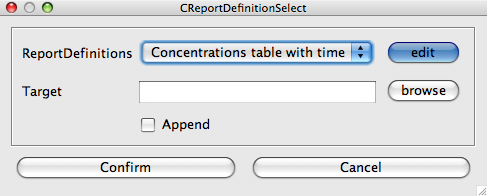
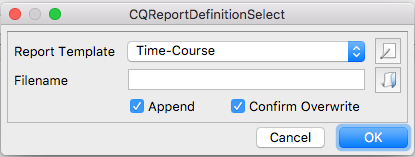
- update screenshots and time course description

diff --git a/Support/User_Manual/Tasks/Time_Course_Simulation/index.html b/Support/User_Manual/Tasks/Time_Course_Simulation/index.html
@@ -4,36 +4,125 @@ title: "Time Course Simulation"
 structure: "User_Manual"
 ---
 
+<script src="https://polyfill.io/v3/polyfill.min.js?features=es6"></script>
+<script>
+MathJax = {
+  tex: {inlineMath: [['$', '$'], ['\\(', '\\)']]}
+};
+</script>
+<script type="text/javascript" id="MathJax-script" defer
+  src="https://cdn.jsdelivr.net/npm/mathjax@3/es5/tex-svg.js">
+</script>
+
+
 <div class="row">
   <div class="col-xs-12">
 
-In order to do a time course simulation, you have to navigate to the corresponding task branch in the object tree which is located at Tasks-&gt;Time Course.<br />
-<br />
-<div class="img" align="center"><table cellpadding="0" cellspacing="0"><tr><td><img alt="" src="TimeCourseTask_01.png" style="width:100%" border="0"  /></td></tr><tr><td class="mini">Trajector&nbsp;Task&nbsp;Dialog</td></tr></table></div><br />
-<br />
-In the <i>Time Course</i> widget you can change several parameters for the time course, e.g. the duration of the simulation and the number of intervals that are being calculated in the time range. Alternatively to setting the number of intervals, you can also set the size of the interval. If you set either one, the other will be updated accordingly. Because if you change the duration, the number of intervals will stay the same, which means that the interval size will be adjusted. The check box labeled Save Result in Memory tells COPASI to keep the result of the time series calculation in memory in order to display it in a result dialog. Since this can be a large amount of data depending on the size of your model and/or on the number of intervals you want COPASI to calculate, you should disable this if you think the result might not fit into memory. The consequence of disabling this check box is that you need to <a title="COPASI: Support/User Manual/Output/Manual Definition/Reports" href="{{ site.baseurl }}/Support/User_Manual/Output/Manual_Definition/Reports/" >define a report</a> in order to store the results of the time course simulation.<br />
-<br />
-Another thing that you can adjust in this dialog is the time at which COPASI starts to record the output. Normally COPASI will store all output and display it in the plot and reports, if there are any, or in the results dialog, if that feature was not disabled. With the delayed check box and input field of Start Output Time, you can specify that COPASI shall drop all results prior to a certain time point. For example, you could decide that you want to run a time course simulation for 100 seconds but only interested in the last 50 seconds of the simulation. In this case you would activate the delayed check box and specify a delay of, lets say, 50. This delay will be used for all kinds of output.<br />
-<br />
-The time course simulation does not necessarily start with <img class="latex-equation" style="vertical-align: text-bottom; position: relative; bottom: +1px; height: 11; width: 37;" src="7d4fca8e7605c4575560f810ff855f57.png" alt="${t}_{0}=0$"> . The start time of the time course simulation depends on the initial model time which can be specified in the <a title="COPASI: Support/User Manual/Model Creation/General Model Settings" href="{{ site.baseurl }}/Support/User_Manual/Model_Creation/General_Model_Settings/" >general model settings dialog</a>.<br />
-<br />
-COPASI supports six different methods for calculating time course simulations. COPASI can use the <i>LSODA</i> solver, or its variant called <i>LSODAR</i>, to calculate the time course deterministically. COPASI is able to calculate the time course stochastically by means of one of two stochastic solvers: the <i>Gibson and Bruck</i> method or the <i>Tau-Leap</i> one. Depending on the solver you have chosen, you can set several parameters in the Parameter value table that influence the way the method works. A detailed explanation of those parameters will follow in the methods part of this document.<br />
-<br />
-In addition to purely deterministic or purely stochastic time course simulations, COPASI can also use a so called hybrid method to calculate a trajectory. This hybrid method splits the model in two segments according to the number of particles participating in a reaction. Reactions with many particles are simulated deterministically and those reactions with only a few particles are simulated stochastically. The boundaries of what is considered as to many or few particles can be set by the user. Depending on the nature of the model, the hybrid simulation can lead to significant simulation speedup compared to purely stochastic simulation while still being more accurate than purely deterministic simulation for small particle numbers. However, the method should still be considered experimental. For a more detailed description of the method and the attributes that you can set see the methods section.<br />
-<br />
-The hybrid solver comes in two flavors. One uses LSODA for deterministic simulation and is called <i>Hybrid (LSODA)</i>, the other uses Runge-Kutta fourth order and is called <i>Hybrid (Runge-Kutta)</i>.<br />
-<br />
-If you haven't created a report definition yet, you can use the output assistant to easily create one by clicking on the corresponding button at the bottom of the time course dialog. Once you have <a title="COPASI: Support/User Manual/Output/Manual Definition/Reports" href="{{ site.baseurl }}/Support/User_Manual/Output/Manual_Definition/Reports/" >created a report definition</a>, you have to associate this report definition with a file for COPASI to be able to write the results to that file. To do that, you click on the Report button.<br />
-<br />
-<div class="img" align="center"><table cellpadding="0" cellspacing="0"><tr><td><img alt="" src="TimeCourseTask_02.png" style="width:100%" border="0"  /></td></tr><tr><td class="mini">Dialog&nbsp;to&nbsp;associate&nbsp;a&nbsp;Report&nbsp;with&nbsp;a&nbsp;File</td></tr></table></div><br />
-<br />
-The dialog that pops up will let you choose the report you want to use (in case you created more than one) and lets you browse for a file to store the report to. Additionally, you can choose if you want to append the report to an already existing file. The default is to create a new file, or to overwrite an existing file. If you want to append to the selected file, you have to check the Append check box.<br />
-<br />
-Once you made all the desired changes to the parameters, you can start the time course simulation by clicking on the Run button. COPASI will show a progress bar while running the simulation, which might take some time depending on several factors, like the hardware you are using, the simulation method you chose, and/or the size of your model. Once COPASI finishes the calculation, the results will be displayed in the report file you defined and/or in a separate result dialog, if you told COPASI to keep the results in memory.<br />
-<br />
-The Result dialog is located directly below the Time Course branch in the object tree. In this widget you can choose whether you want the results to be displayed as concentrations or as particle numbers, and you have the possibility to store the results to a file. The advantage that a report has rather than writing a file in the Result widget is that you can choose exactly which species concentrations you want to store whereas the Result dialog always stores all species concentrations. You also can't change the order in which the species concentrations are written, if you store the result from this dialog.<br />
-<br />
-<div class="img" align="center"><table cellpadding="0" cellspacing="0"><tr><td><img alt="" src="TimeCourseTask_03.png" style="width:100%" border="0"  /></td></tr><tr><td class="mini">Trajectory&nbsp;Task&nbsp;Results</td></tr></table></div><br />
-<br />
+    In order to do a time course simulation, you have to navigate to the corresponding task branch in the object tree
+    which is located at Tasks-&gt;Time Course.<br />
+    <br />
+    <div class="img" align="center">
+      <table cellpadding="0" cellspacing="0">
+        <tr>
+          <td><img alt="" src="TimeCourseTask_01.png" style="width:100%" border="0" /></td>
+        </tr>
+        <tr>
+          <td class="mini">Trajector&nbsp;Task&nbsp;Dialog</td>
+        </tr>
+      </table>
+    </div><br />
+    <br />
+    In the <i>Time Course</i> widget you can change several parameters for the time course, e.g. the duration of the
+    simulation and the number of intervals that are being calculated in the time range. Alternatively to setting the
+    number of intervals, you can also set the size of the interval. If you set either one, the other will be updated
+    accordingly. Because if you change the duration, the number of intervals will stay the same, which means that the
+    interval size will be adjusted. The check box labeled Save Result in Memory tells COPASI to keep the result of the
+    time series calculation in memory in order to display it in a result dialog. Since this can be a large amount of
+    data depending on the size of your model and/or on the number of intervals you want COPASI to calculate, you should
+    disable this if you think the result might not fit into memory. The consequence of disabling this check box is that
+    you need to <a title="COPASI: Support/User Manual/Output/Manual Definition/Reports"
+      href="{{ site.baseurl }}/Support/User_Manual/Output/Manual_Definition/Reports/">define a report</a> in order to
+    store the results of the time course simulation.<br />
+    <br />
+    Another thing that you can adjust in this dialog is the time at which COPASI starts to record the output. Normally
+    COPASI will store all output and display it in the plot and reports, if there are any, or in the results dialog, if
+    that feature was not disabled. With the delayed check box and input field of Start Output Time, you can specify that
+    COPASI shall drop all results prior to a certain time point. For example, you could decide that you want to run a
+    time course simulation for 100 seconds but only interested in the last 50 seconds of the simulation. In this case
+    you would activate the delayed check box and specify a delay of, lets say, 50. This delay will be used for all kinds
+    of output.<br />
+    <br />
+    The time course simulation does not necessarily start with ${t}_{0}=0$. The start time of the time course simulation
+    depends on the initial model time which can be specified in the <a
+      title="COPASI: Support/User Manual/Model Creation/General Model Settings"
+      href="{{ site.baseurl }}/Support/User_Manual/Model_Creation/General_Model_Settings/">general model settings
+      dialog</a>.<br />
+    <br />
+    COPASI supports six different methods for calculating time course simulations. COPASI can use the <i>LSODA</i>
+    solver, or its variant called <i>LSODAR</i>, to calculate the time course deterministically. COPASI is able to
+    calculate the time course stochastically by means of one of two stochastic solvers: the <i>Gibson and Bruck</i>
+    method or the <i>Tau-Leap</i> one. Depending on the solver you have chosen, you can set several parameters in the
+    Parameter value table that influence the way the method works. A detailed explanation of those parameters will
+    follow in the methods part of this document.<br />
+    <br />
+    In addition to purely deterministic or purely stochastic time course simulations, COPASI can also use a so called
+    hybrid method to calculate a trajectory. This hybrid method splits the model in two segments according to the number
+    of particles participating in a reaction. Reactions with many particles are simulated deterministically and those
+    reactions with only a few particles are simulated stochastically. The boundaries of what is considered as to many or
+    few particles can be set by the user. Depending on the nature of the model, the hybrid simulation can lead to
+    significant simulation speedup compared to purely stochastic simulation while still being more accurate than purely
+    deterministic simulation for small particle numbers. However, the method should still be considered experimental.
+    For a more detailed description of the method and the attributes that you can set see the methods section.<br />
+    <br />
+    The hybrid solver comes in two flavors. One uses LSODA for deterministic simulation and is called <i>Hybrid
+      (LSODA)</i>, the other uses Runge-Kutta fourth order and is called <i>Hybrid (Runge-Kutta)</i>.<br />
+    <br />
+    If you haven't created a report definition yet, you can use the output assistant to easily create one by clicking on
+    the corresponding button at the bottom of the time course dialog. Once you have <a
+      title="COPASI: Support/User Manual/Output/Manual Definition/Reports"
+      href="{{ site.baseurl }}/Support/User_Manual/Output/Manual_Definition/Reports/">created a report definition</a>,
+    you have to associate this report definition with a file for COPASI to be able to write the results to that file. To
+    do that, you click on the Report button.<br />
+    <br />
+    <div class="img" align="center">
+      <table cellpadding="0" cellspacing="0">
+        <tr>
+          <td><img alt="" src="TimeCourseTask_02.png" style="width:100%" border="0" /></td>
+        </tr>
+        <tr>
+          <td class="mini">Dialog&nbsp;to&nbsp;associate&nbsp;a&nbsp;Report&nbsp;with&nbsp;a&nbsp;File</td>
+        </tr>
+      </table>
+    </div><br />
+    <br />
+    The dialog that pops up will let you choose the report you want to use (in case you created more than one) and lets
+    you browse for a file to store the report to. Additionally, you can choose if you want to append the report to an
+    already existing file. The default is to create a new file, or to overwrite an existing file. If you want to append
+    to the selected file, you have to check the Append check box.<br />
+    <br />
+    Once you made all the desired changes to the parameters, you can start the time course simulation by clicking on the
+    Run button. COPASI will show a progress bar while running the simulation, which might take some time depending on
+    several factors, like the hardware you are using, the simulation method you chose, and/or the size of your model.
+    Once COPASI finishes the calculation, the results will be displayed in the report file you defined and/or in a
+    separate result dialog, if you told COPASI to keep the results in memory.<br />
+    <br />
+    The Result dialog is located directly below the Time Course branch in the object tree. In this widget you can choose
+    whether you want the results to be displayed as concentrations or as particle numbers, and you have the possibility
+    to store the results to a file. The advantage that a report has rather than writing a file in the Result widget is
+    that you can choose exactly which species concentrations you want to store whereas the Result dialog always stores
+    all species concentrations. You also can't change the order in which the species concentrations are written, if you
+    store the result from this dialog.<br />
+    <br />
+    <div class="img" align="center">
+      <table cellpadding="0" cellspacing="0">
+        <tr>
+          <td><img alt="" src="TimeCourseTask_03.png" style="width:100%" border="0" /></td>
+        </tr>
+        <tr>
+          <td class="mini">Trajectory&nbsp;Task&nbsp;Results</td>
+        </tr>
+      </table>
+    </div><br />
+    <br />
   </div>
 </div>

diff --git a/Support/User_Manual/Tasks/Time_Course_Simulation/Working_with_Plots/index.html b/Support/User_Manual/Tasks/Time_Course_Simulation/Working_with_Plots/index.html
@@ -7,18 +7,36 @@ structure: "User_Manual"
 <div class="row">
   <div class="col-xs-12">
 
-If you have defined an active plot before calculating a trajectory, COPASI will draw the plot. The plot window has three elements. A tool bar at the top, that lets you print the plot or save the data into a file; the legend, which is interactive such that the drawing of certain curves can be toggled by clicking on the corresponding legend entry; and the actual plot.<br />
-<br />
-<div class="img" align="center"><table cellpadding="0" cellspacing="0"><tr><td><img alt="" src="PlotWindow_01.png" style="width:100%" border="0"  /></td></tr><tr><td class="mini">Plot&nbsp;Window</td></tr></table></div><br />
-<br />
-During moving the mouse cursor inside a plot widget, the mouse coordinates with respect to the coordinate system of the plot are displayed beside the mouse cursor.<br />
-<br />
-In order to zoom further into a plot, you can select a rectangular area on the plot by clicking somewhere in the plot and dragging the pointer. The plot will now zoom into the area you just selected. To go back to the original plot, right click on the plot area.<br />
-<br />
-<div class="alert alert-warning" role="alert"><span class="glyphicon glyphicon-exclamation-sign" aria-hidden="true"></span><span class="sr-only">Warning:</span> Macintosh users with single button mice should use CTRL-click.<br />
-</div><br />
-<br />
-<br />
-<br />
+    If you have defined an active plot before calculating a trajectory, COPASI will draw the plot. The plot window has
+    three elements. A tool bar at the top, that lets you print the plot or save the data into a file, change the axis scaling, 
+    or even to deactivate the plot, so it will not automatically start when the task is run; the legend, which
+    is interactive such that the drawing of certain curves can be toggled by clicking on the corresponding legend entry;
+    and the actual plot.<br />
+    <br />
+    <div class="img" align="center">
+      <table cellpadding="0" cellspacing="0">
+        <tr>
+          <td><img alt="" src="PlotWindow_01.png" style="width:100%" border="0" /></td>
+        </tr>
+        <tr>
+          <td class="mini">Plot&nbsp;Window</td>
+        </tr>
+      </table>
+    </div><br />
+    <br />
+    During moving the mouse cursor inside a plot widget, the mouse coordinates with respect to the coordinate system of
+    the plot are displayed beside the mouse cursor.<br />
+    <br />
+    In order to zoom further into a plot, you can select a rectangular area on the plot by clicking somewhere in the
+    plot and dragging the pointer. The plot will now zoom into the area you just selected. To go back to the original
+    plot, right click on the plot area.<br />
+    <br />
+    <div class="alert alert-warning" role="alert"><span class="glyphicon glyphicon-exclamation-sign"
+        aria-hidden="true"></span><span class="sr-only">Warning:</span> Macintosh users with single button mice should
+      use CTRL-click.<br />
+    </div><br />
+    <br />
+    <br />
+    <br />
   </div>
 </div>
